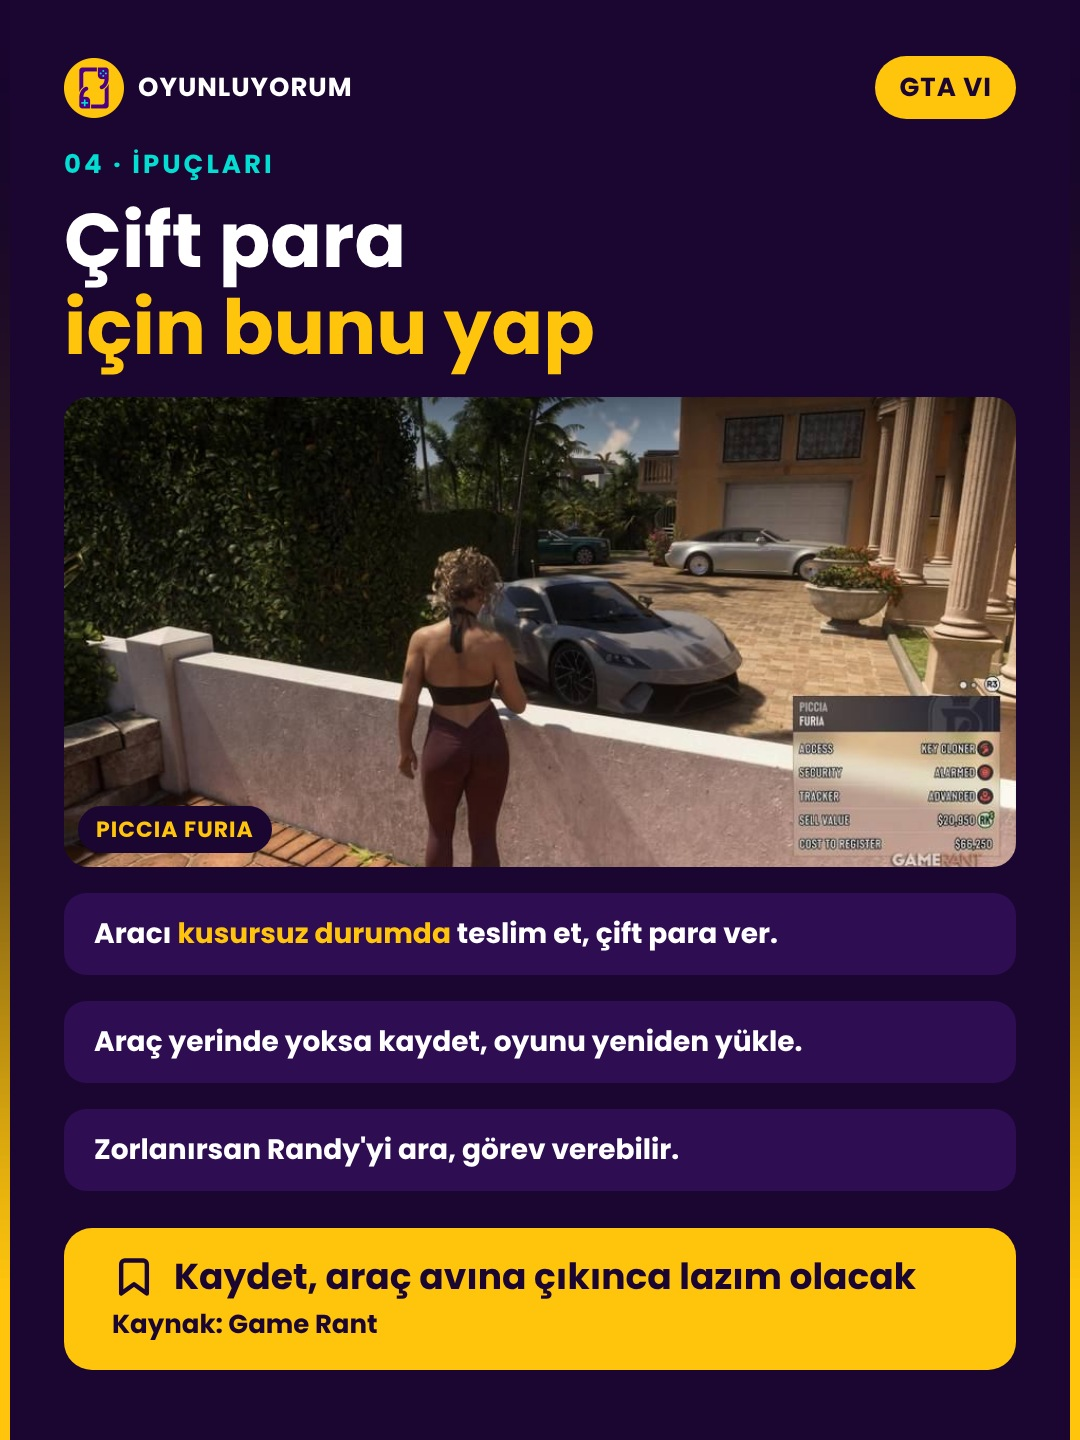
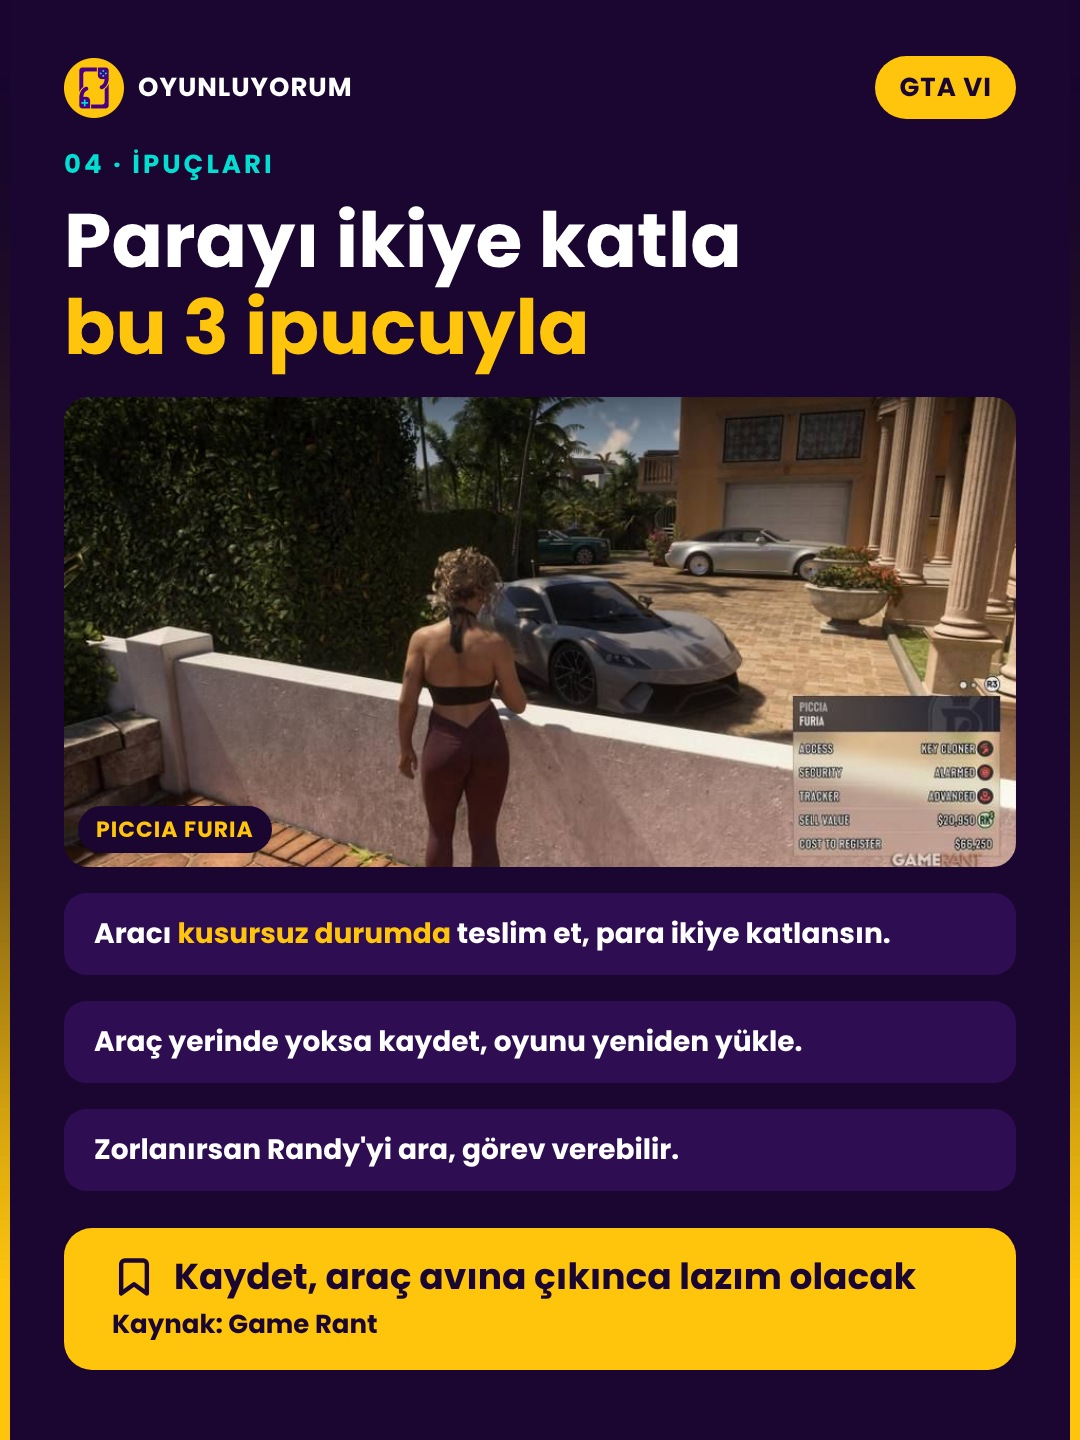
Randy karuseli: çift para yerine parayı ikiye katlama
Claude-Session: https://claude.ai/code/session_01Cfy9VgEXWVL5ta7MT2PpLs

Changed region(s): [[0.0611, 0.125, 0.7028, 0.2812], [0.55, 0.625, 0.825, 0.6562]]

diff --git a/posts/2026-11-23-gta6-randy-wish-list/aciklama.md b/posts/2026-11-23-gta6-randy-wish-list/aciklama.md
@@ -6,7 +6,7 @@ Kaynak: Game Rant (Jake Fillery, 21 Kasım 2026). Format: 5 slayt karusel, 1080x
 
 GTA 6'da Randy 20 pahalı araç istiyor 🏎💰
 
-Çoğu Capri'deki evlerde, kalanı otoparkta, sokakta, Vice City'de ve Hamlet'te. Kusursuz teslim edersen çift para veriyor. Hangisini en çok çalmak istiyorsun? 👇
+Çoğu Capri'deki evlerde, kalanı otoparkta, sokakta, Vice City'de ve Hamlet'te. Kusursuz teslim edersen parayı ikiye katlıyor. Hangisini en çok çalmak istiyorsun? 👇
 Araç avına beraber çıkacağın arkadaşına gönder.
 
 #gta6 #gtavi #gta6türkiye #rockstargames #araba #oyun #oyunluyorum
